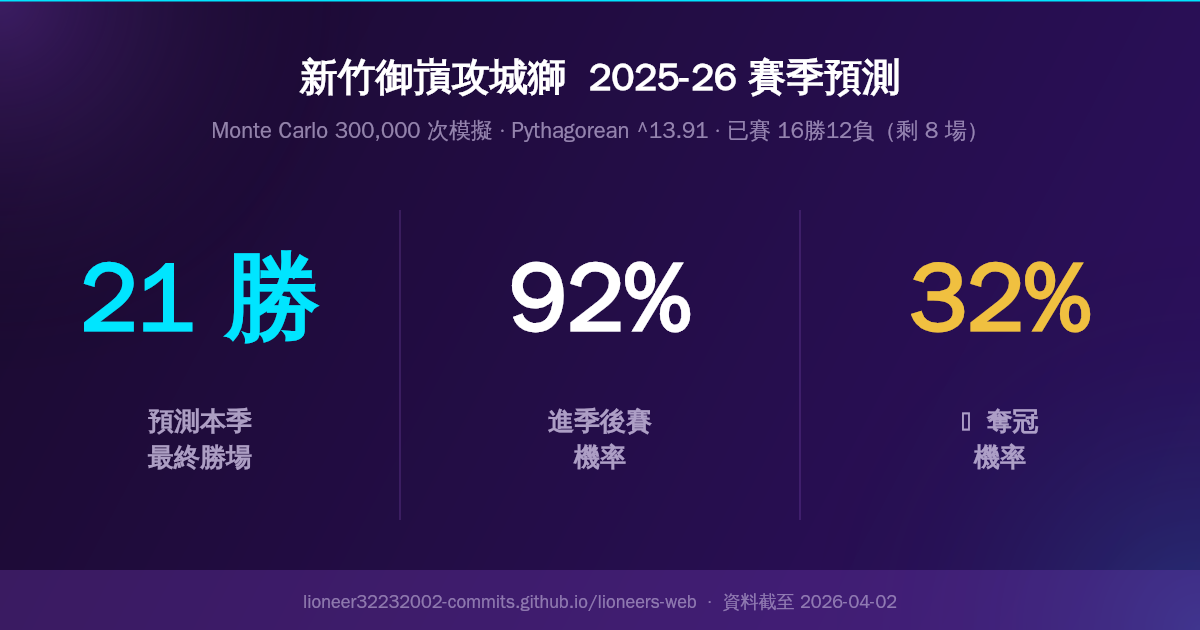
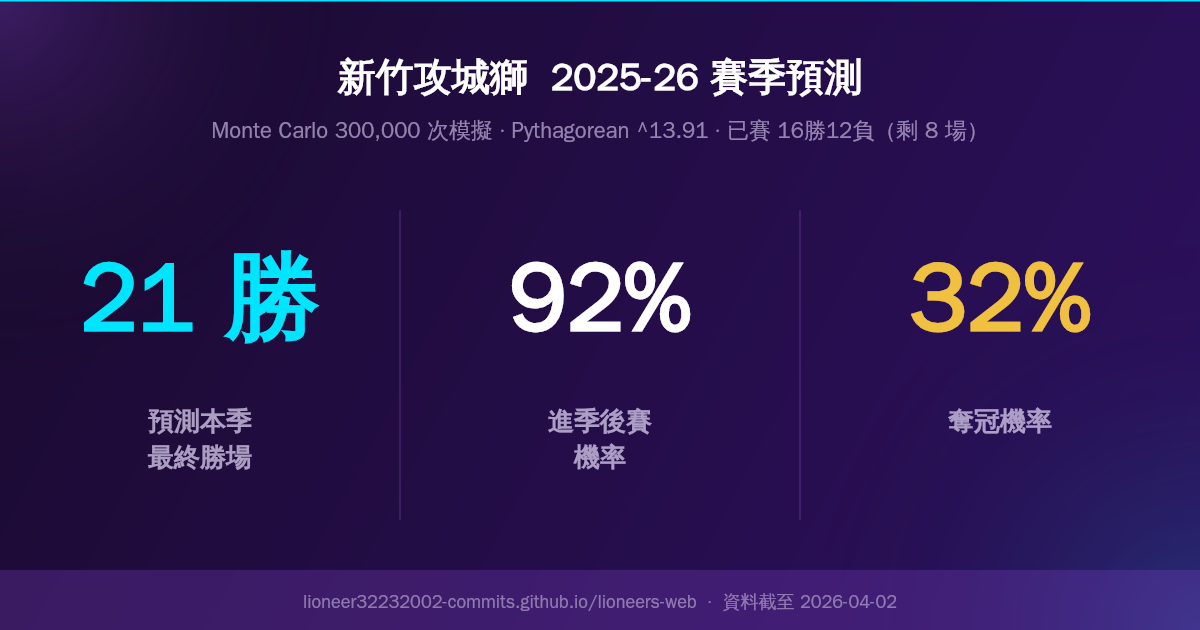
OG 圖修正：刪除御嵿、奪冠機率單行、移除 emoji
https://claude.ai/code/session_01D5jezqCdNUhBHkPh4NM1we

Changed region(s): [[0.2467, 0.0905, 0.7708, 0.1508], [0.7708, 0.6333, 0.8942, 0.754]]

diff --git a/generate-og.js b/generate-og.js
@@ -51,7 +51,7 @@ ctx.beginPath(); ctx.moveTo(0, 0); ctx.lineTo(W, 0); ctx.stroke();
 ctx.textAlign = 'center';
 ctx.fillStyle = '#ffffff';
 ctx.font = `bold 38px WenQuanYi Zen Hei, sans-serif`;
-ctx.fillText('新竹御嵿攻城獅  2025-26 賽季預測', W / 2, 90);
+ctx.fillText('新竹攻城獅  2025-26 賽季預測', W / 2, 90);
 
 // ── 副標 ──
 ctx.fillStyle = 'rgba(197,184,220,.7)';
@@ -62,7 +62,7 @@ ctx.fillText(`Monte Carlo 300,000 次模擬 · Pythagorean ^13.91 · 已賽 ${ts
 const cols = [
   { id: projWins + ' 勝', label: '預測本季\n最終勝場',  accent: '#00e5ff' },
   { id: playoff + '%',    label: '進季後賽\n機率',       accent: '#ffffff' },
-  { id: champ  + '%',     label: '🏆  奪冠\n機率',       accent: '#f0c040' },
+  { id: champ  + '%',     label: '奪冠機率',              accent: '#f0c040' },
 ];
 
 const colW  = W / 3;

diff --git a/index.html b/index.html
@@ -5,7 +5,7 @@
   <meta name="viewport" content="width=device-width, initial-scale=1.0">
   <title>新竹御嵿攻城獅 2025-26 賽季數據分析</title>
   <!-- Open Graph（FB / LINE 分享縮圖） -->
-  <meta property="og:title"       content="新竹御嵿攻城獅 2025-26 賽季預測">
+  <meta property="og:title"       content="新竹攻城獅 2025-26 賽季預測">
   <meta property="og:description" content="Monte Carlo 30萬次模擬：進季後賽 92%・奪冠 32%・預測最終勝場 21勝">
   <meta property="og:image"       content="https://raw.githubusercontent.com/lioneer32232002-commits/lioneers-web/main/og-image.png">
   <meta property="og:url"         content="https://lioneers-web.pages.dev/">
